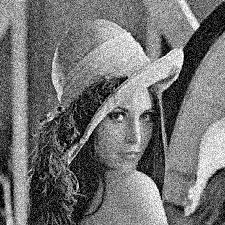
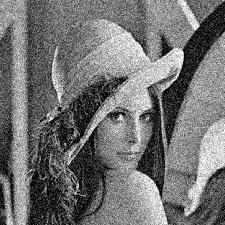
.

diff --git a/ImageDenoiser/src/denoiser/Thresholding.java b/ImageDenoiser/src/denoiser/Thresholding.java
@@ -5,128 +5,76 @@ import java.util.List;
 
 public class Thresholding {
 
-    // Seuil VisuShrink
+    // Seuil VisuShrink (sigma * sqrt(2 * ln(n)))
     public static double seuilVisu(double sigma, int size) {
         return sigma * Math.sqrt(2 * Math.log(size));
     }
 
-    // Seuil BayesShrink
+    // Seuil BayesShrink (sigma^2 / sigmaSignal)
     public static double seuilBayes(double sigma, double sigmaSignal) {
         if (sigmaSignal == 0) return 0;
         return (sigma * sigma) / sigmaSignal;
     }
 
-    // Estimation de σ_x à partir des contributions projetées (pour un axe donné)
-    public static double estimateSigmaSignal(List<Double> contributions, double sigma) {
-        int n = contributions.size();
+    // Estimation globale de sigma_x (σ_signal) à partir de toutes les contributions projetées
+    public static double estimateGlobalSigmaSignal(double[][] contributions, double sigma) {
+        int M = contributions.length;
+        int d = contributions[0].length;
+
         double mean = 0.0;
-        for (double x : contributions) {
-            mean += x;
-        }
-        mean /= n;
+        for (double[] row : contributions)
+            for (double x : row)
+                mean += x;
+
+        mean /= (M * d);
 
         double variance = 0.0;
-        for (double x : contributions) {
-            variance += (x - mean) * (x - mean);
-        }
-        variance /= n;
+        for (double[] row : contributions)
+            for (double x : row)
+                variance += (x - mean) * (x - mean);
+
+        variance /= (M * d);
 
         double signalVariance = Math.max(variance - sigma * sigma, 0);
         return Math.sqrt(signalVariance);
     }
 
+    // Fonction de seuillage doux (soft thresholding)
     public static double soft(double lambda, double x) {
         if (x > lambda) return x - lambda;
         else if (x < -lambda) return x + lambda;
         else return 0.0;
     }
 
+    // Fonction de seuillage dur (hard thresholding)
     public static double hard(double lambda, double x) {
         return Math.abs(x) >= lambda ? x : 0.0;
     }
 
-    public static double[][] seuillageDouxVisu(double[][] contributions, double lambda) {
+    // Fonction générique de seuillage (doux ou dur) une fois lambda calculé
+    public static double[][] appliquerSeuillage(double[][] contributions, double lambda, boolean isSoft) {
         int M = contributions.length;
         int d = contributions[0].length;
         double[][] result = new double[M][d];
 
         for (int i = 0; i < M; i++) {
             for (int j = 0; j < d; j++) {
-                result[i][j] = soft(lambda, contributions[i][j]);
+                result[i][j] = isSoft
+                    ? soft(lambda, contributions[i][j])
+                    : hard(lambda, contributions[i][j]);
             }
         }
 
         return result;
     }
 
-    public static double[][] seuillageDurVisu(double[][] contributions, double lambda) {
-        int M = contributions.length;
-        int d = contributions[0].length;
-        double[][] result = new double[M][d];
-
-        for (int i = 0; i < M; i++) {
-            for (int j = 0; j < d; j++) {
-                result[i][j] = hard(lambda, contributions[i][j]);
-            }
-        }
-
-        return result;
-    }
-
-    // Seuillage doux par BayesShrink, axe par axe
-    public static double[][] seuillageDouxBayes(double[][] contributions, double sigma) {
-        int M = contributions.length;
-        int d = contributions[0].length;
-        double[][] result = new double[M][d];
-
-        for (int j = 0; j < d; j++) {
-            List<Double> contribsJ = new ArrayList<>();
-            for (int i = 0; i < M; i++) {
-                contribsJ.add(contributions[i][j]);
-            }
-
-            double sigmaSignal = estimateSigmaSignal(contribsJ, sigma);
-            double lambdaJ = sigmaSignal == 0 ? Double.POSITIVE_INFINITY : seuilBayes(sigma, sigmaSignal);
-
-
-            for (int i = 0; i < M; i++) {
-                result[i][j] = soft(lambdaJ, contributions[i][j]);
-            }
-        }
-
-        return result;
-    }
-
-    // Seuillage dur par BayesShrink, axe par axe
-    public static double[][] seuillageDurBayes(double[][] contributions, double sigma) {
-        int M = contributions.length;
-        int d = contributions[0].length;
-        double[][] result = new double[M][d];
-
-        for (int j = 0; j < d; j++) {
-            List<Double> contribsJ = new ArrayList<>();
-            for (int i = 0; i < M; i++) {
-                contribsJ.add(contributions[i][j]);
-            }
-
-            double sigmaSignal = estimateSigmaSignal(contribsJ, sigma);
-            double lambdaJ = seuilBayes(sigma, sigmaSignal);
-
-            for (int i = 0; i < M; i++) {
-                result[i][j] = hard(lambdaJ, contributions[i][j]);
-            }
-        }
-
-        return result;
-    }
-
-    // Reconstruire les vecteurs centrés dans l’espace d’origine
+    // Reconstruction des vecteurs à partir des contributions seuillées
     public static List<double[]> reconstructionsDepuisContributions(
             double[][] contributionsSeuillees,
-            double[][] base, // base propre
-            double[] moyenne // moyenne calculée dans l'ACP
+            double[][] base,
+            double[] moyenne
     ) {
-        int M = contributionsSeuillees.length; // nombre de patchs
+        int M = contributionsSeuillees.length;
         int d = moyenne.length;
         List<double[]> reconstructions = new ArrayList<>();
 
@@ -143,5 +91,4 @@ public class Thresholding {
 
         return reconstructions;
     }
-
 }

diff --git a/ImageDenoiser/src/denoiser/Main.java b/ImageDenoiser/src/denoiser/Main.java
@@ -7,43 +7,50 @@ import javax.imageio.ImageIO;
 
 public class Main {
     public static void main(String[] args) {
-       try {
+        try {
             // 1. Chargement de l'image originale
             BufferedImage original = loadImage("ImageDenoiser/images_sources/lena.jpeg");
 
-            // 2. Ajout de bruit gaussien
+            // 2. Ajout de bruit
             double sigma = 25.0;
             BufferedImage noisy = ImageUtils.noising(original, sigma);
             saveImage(noisy, "ImageDenoiser/images_bruitees/lena_noisy1.jpeg");
 
             // 3. Extraction des patchs
-            int s = 8; // Taille du patch (s x s)
+            int s = 8;
             List<Patch> patches = ImageUtils.extractPatches(noisy, s);
 
-            // 4. Conversion des patchs en vecteurs
+            // 4. Conversion en vecteurs
             List<double[]> vectors = patches.stream()
-                                            .map(p -> p.toVector())
+                                            .map(Patch::toVector)
                                             .toList();
 
-            // 5. Application de l'ACP
+            // 5. ACP
             ACPResult acpResult = ACP.computeACP(vectors);
 
-            // 6. Projection des vecteurs centrés
+            // 6. Projection
             List<double[]> Vc = ACP.MoyCov(vectors).Vc;
             double[][] contributions = ACP.project(acpResult.base, Vc);
 
-            // 7. Seuillage des contributions
-            double lambda = Thresholding.seuilBayes(sigma, s * s);
-            double[][] contributionsSeuillees = Thresholding.seuillageDouxBayes(contributions, lambda);
+            // 7. Calcul du lambda (choisir entre VisuShrink ou BayesShrink)
+            // (A) Pour VisuShrink :
+            //double lambda = Thresholding.seuilVisu(sigma, s * s);
 
-            // 8. Reconstruction des vecteurs depuis les contributions seuillées
+            // (B) Pour BayesShrink :
+            double sigmaSignal = Thresholding.estimateGlobalSigmaSignal(contributions, sigma);
+            double lambda = Thresholding.seuilBayes(sigma, sigmaSignal);
+
+            // 8. Seuillage des contributions (true = doux, false = dur)
+            double[][] contributionsSeuillees = Thresholding.appliquerSeuillage(contributions, lambda, false);
+
+            // 9. Reconstruction des vecteurs
             List<double[]> reconstructions = Thresholding.reconstructionsDepuisContributions(
                 contributionsSeuillees,
                 acpResult.base,
                 acpResult.moyenne
             );
 
-            // 9. Reconstruction de l'image depuis les patchs reconstruits
+            // 10. Reconstruction de l'image depuis les patchs
             List<Patch> reconstructedPatches = new java.util.ArrayList<>();
             for (int i = 0; i < reconstructions.size(); i++) {
                 Patch originalPatch = patches.get(i);
@@ -54,7 +61,7 @@ public class Main {
 
             BufferedImage denoised = ImageUtils.reconstructPatches(reconstructedPatches, noisy.getHeight(), noisy.getWidth());
 
-            // 10. Sauvegarde des images
+            // 11. Sauvegarde
             saveImage(denoised, "ImageDenoiser/images_reconstruites/denoised.jpeg");
 
             System.out.println("Traitement terminé avec succès.");
